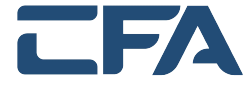
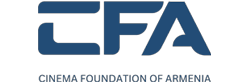
changed the partners

diff --git a/index.html b/index.html
@@ -54,11 +54,11 @@
                     <a href="https://www.landmarkcapital.am">
                     <img src="partners/lc.png" alt="Partner One" class="partner-logo">
                     </a>
-                    <p><a href="https://www.landmarkcapital.am">Landmark Capital</a> is the official sponsor of LandMark.am, supporting the growth of our photographic archive and cultural projects across Armenia.</p>
+                    <!-- <p><a href="https://www.landmarkcapital.am">Landmark Capital</a> is the official sponsor of LandMark.am, supporting the growth of our photographic archive and cultural projects across Armenia.</p> -->
                     <a href="https://cfarmenia.am/en/">
                     <img src="partners/cfa.png" alt="Partner Two" class="partner-logo">
                     </a>
-                    <p><a href="https://cfarmenia.am/en/">Cinema Foundation of Armenia</a> is our partner, providing location scouting and photographic archives to support Armenian cinema.</p>
+                    <!-- <p><a href="https://cfarmenia.am/en/">Cinema Foundation of Armenia</a> is our partner, providing location scouting and photographic archives to support Armenian cinema.</p> -->
                 </div>
             </div>
             <div class="contact-info">

diff --git a/style.css b/style.css
@@ -231,7 +231,7 @@ footer {
 
 /* PARTNERS SECTION STYLING */
 .partners-info {
-    max-width: 400px;
+    max-width: 800px;
     /* FIX: Ensure partners section is a block that takes up a whole line (on mobile) */
     display: block; 
 }
@@ -244,7 +244,7 @@ footer {
 }
 
 .partner-logo {
-    max-width: 100px;
+    max-width: 250px;
     height: auto;
     opacity: 0.7;
     transition: opacity 0.3s;
